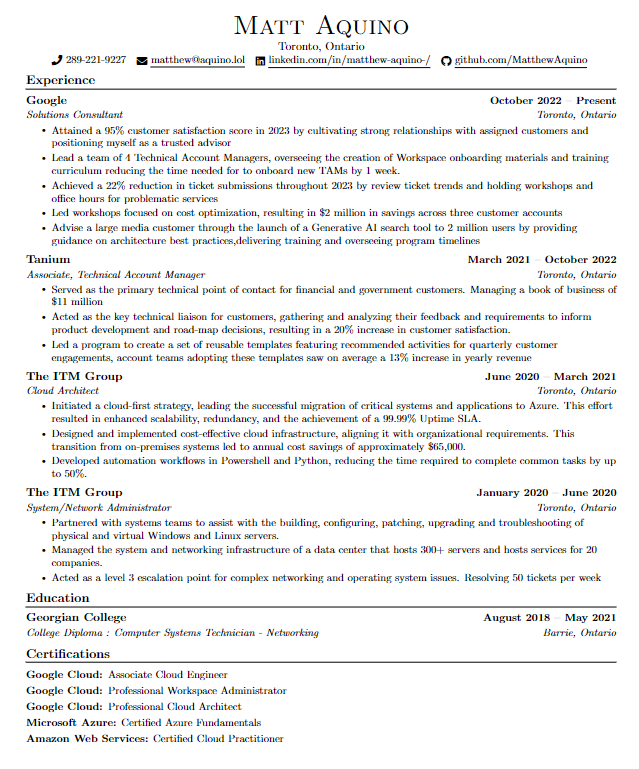
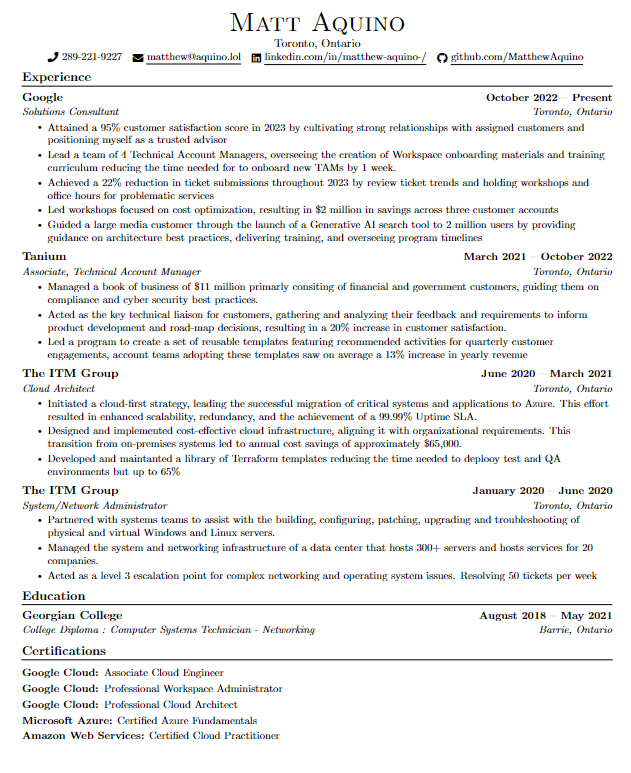
commit

Changed region(s): [[0.0301, 0.0, 0.9937, 0.9675]]

diff --git a/main.tex b/main.tex
@@ -143,14 +143,14 @@
         \resumeItem{Lead a team of 4 Technical Account Managers, overseeing the creation of Workspace onboarding materials and training curriculum reducing the time needed for to onboard new TAMs by 1 week.}
         \resumeItem{Achieved a 22\% reduction in ticket submissions throughout 2023 by review ticket trends and holding workshops and office hours for problematic services}
         \resumeItem{Led workshops focused on cost optimization, resulting in \$2 million in savings across three customer accounts}
-        \resumeItem{Advise a large media customer through the launch of a Generative AI search tool to 2 million users by providing guidance on architecture best practices,delivering training and overseeing program timelines}
+        \resumeItem{Guided a large media customer through the launch of a Generative AI search tool to 2 million users by providing guidance on architecture best practices, delivering training, and overseeing program timelines}
       \resumeItemListEnd
 
     \resumeSubheading
       {Tanium}{March 2021 -- October 2022}
       {Associate, Technical Account Manager}{Toronto, Ontario}
       \resumeItemListStart
-        \resumeItem{Served as the primary technical point of contact for financial and government customers. Managing a book of business of ~ \$11 million }
+        \resumeItem{Managed a book of business of \$11 million primarly consiting of financial and government customers, guiding them on compliance and cyber security best practices.}
         \resumeItem{Acted as the key technical liaison for customers, gathering and analyzing their feedback and requirements to inform product development and road-map decisions, resulting in a 20\% increase in customer satisfaction.}
         \resumeItem{Led a program to create a set of reusable templates featuring recommended activities for quarterly customer engagements, account teams adopting these templates saw on average a 13\% increase in yearly revenue}
     \resumeItemListEnd
@@ -161,7 +161,7 @@
       \resumeItemListStart
         \resumeItem{Initiated a cloud-first strategy, leading the successful migration of critical systems and applications to Azure. This effort resulted in enhanced scalability, redundancy, and the achievement of a 99.99\% Uptime SLA.}
         \resumeItem{Designed and implemented cost-effective cloud infrastructure, aligning it with organizational requirements. This transition from on-premises systems led to annual cost savings of approximately \$65,000.}
-        \resumeItem{Developed automation workflows in Powershell and Python, reducing the time required to complete common tasks by up to 50\%. }
+        \resumeItem{Developed and maintanted a library of Terraform templates reducing the time needed to deplooy test and QA environments but up to 65\%}
     \resumeItemListEnd
 
     \resumeSubheading
